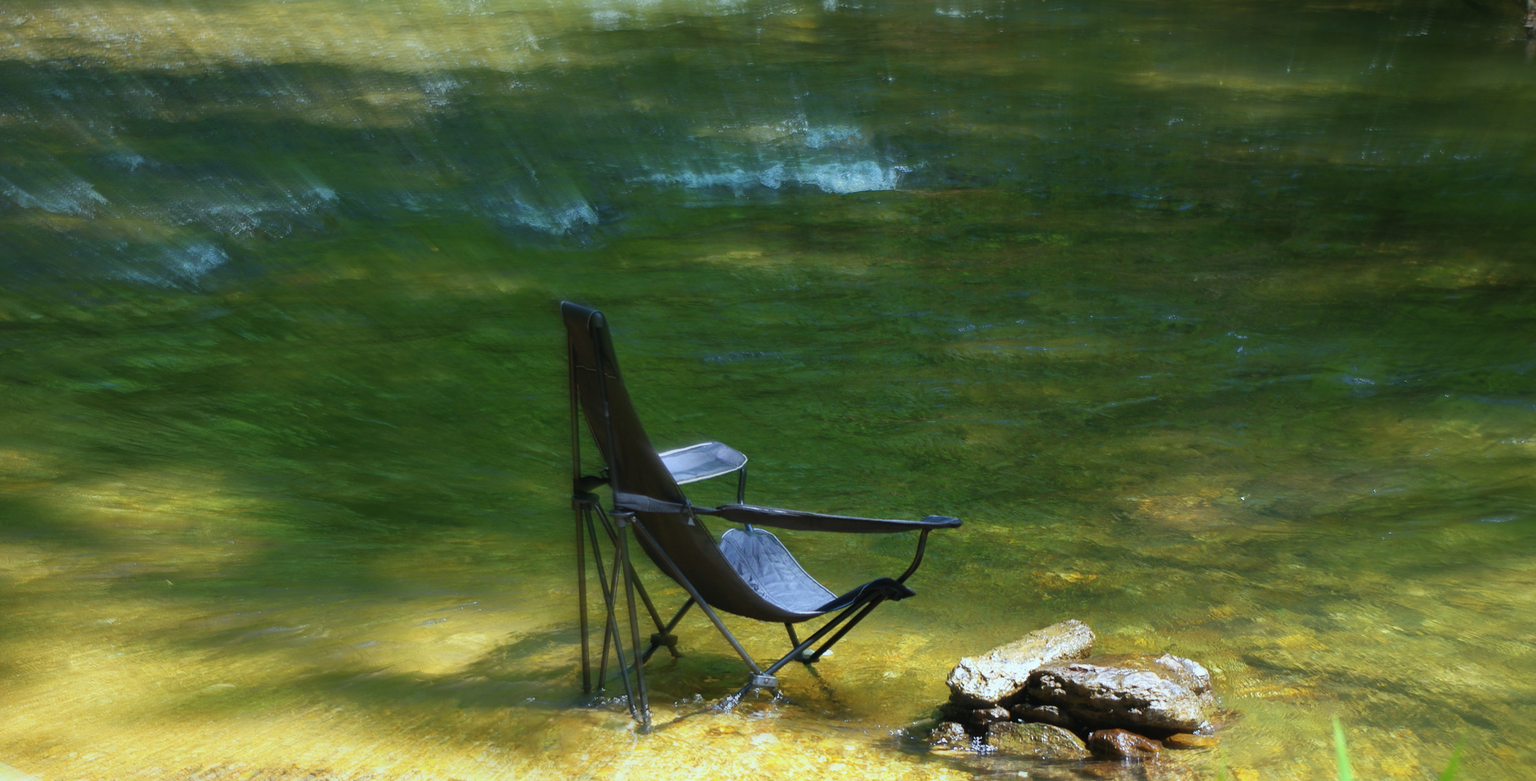
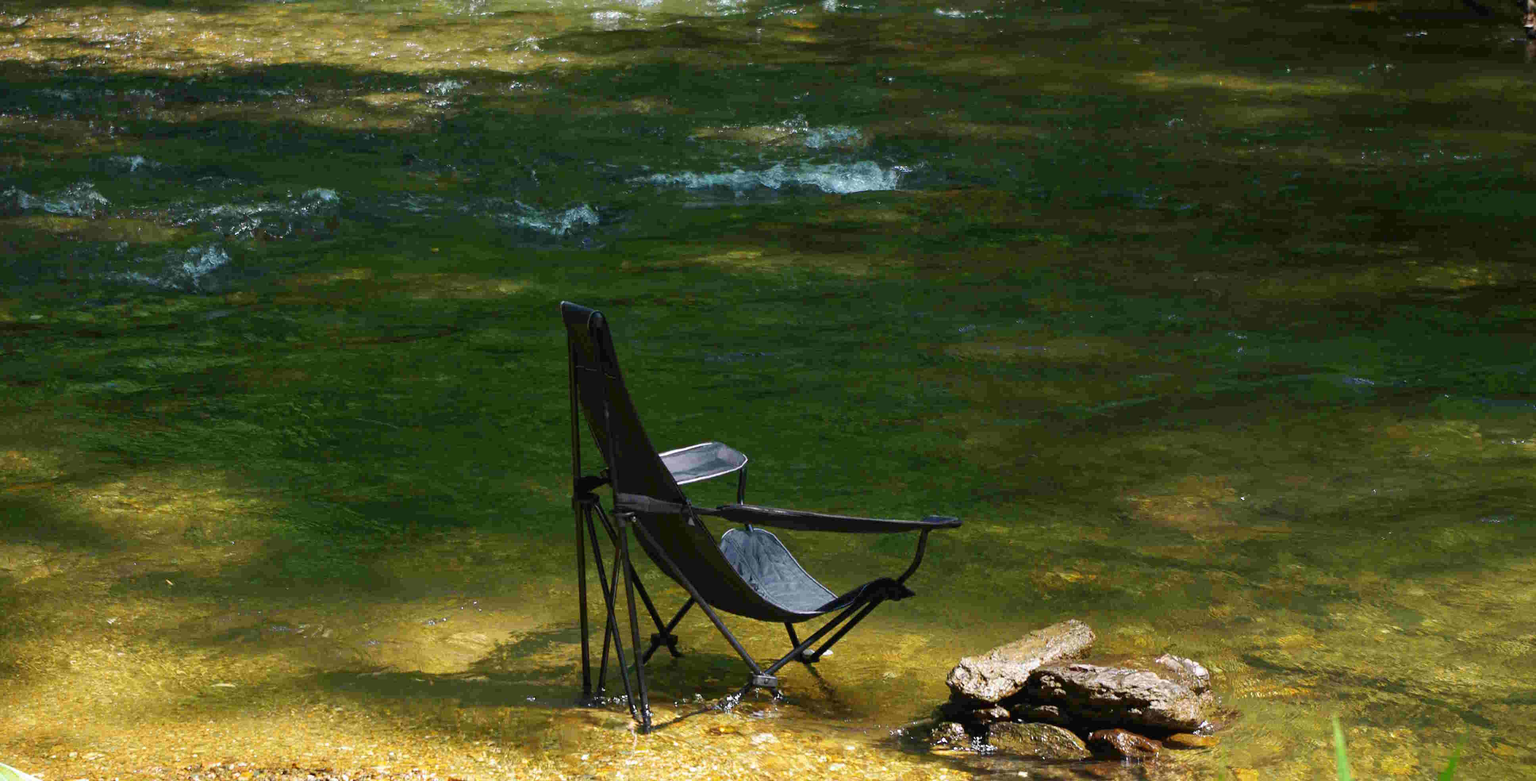
test

diff --git a/public/stylesheets/style.css b/public/stylesheets/style.css
@@ -1,5 +1,5 @@
     html {
-      background: url(../images/bg.jpg) no-repeat center center fixed;
+      background: url(../images/bg2.jpg) no-repeat center center fixed;
       -webkit-background-size: cover;
       -moz-background-size: cover;
       -o-background-size: cover;
